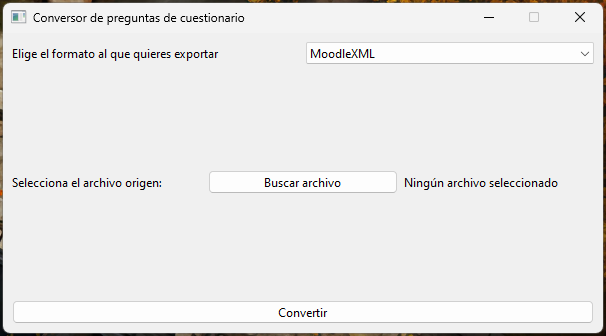
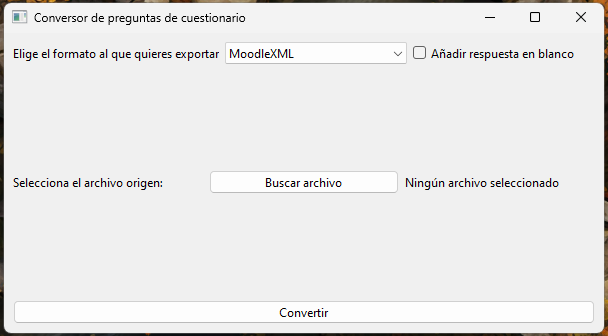
README and images  update

diff --git a/README.md b/README.md
@@ -38,10 +38,30 @@ Se incluye una interfaz gráfica para poder utilizar la aplicación más fácilm
 
 ![Ventana principal de la interfaz](./images/interface.png)
 
-- Se puede elegir el formato de salida deseado, a partir de un menú desplegable
+- Se puede elegir el formato de salida deseado, a partir de un menú desplegable.
+- Hay una casilla que se puede marcar para **añadir de forma automática una opción de respuesta que sirva para dejar la pregunta en blanco**, donde no afectaría la penalización.
 - Se puede elegir un archivo a convertir con el botón que está dedicado a ello, cuando un archivo esté seleccionado, aparecerá su nombre a la derecha.
 - Un vez se clica el botón de **Convertir**, se debe elegir la carpeta donde se guardará el archivo generado, con el nombre deseado.
 
+
+### Importación del archivo en Moodle
+Una vez esté el archivo generado, lo único que tenemos que hacer para poder usarlo es ir a un aula virtual Moodle, por ejemplo EducaMadrid. En la opción **Más** encontraremos el **Banco de preguntas**. Clicamos sobre él.
+
+![Ventana principal del curso de Moodle](./images/course-site.png)
+
+Dentro del **Banco de preguntas** podemos tener más o menos categorías creadas, pero para importar las preguntas de nuestro cuestionario generado clicamos en **Preguntas** y seleccionamos **Importar**.
+
+![Banco de preguntas](./images/question-repository.png)
+
+Al darle clic en **Importar** veremos que nos dejan elegir entre varios formatos, elegiremos el formato que sea nuestro archivo generado y lo arrastraremos en la parte de abajo.
+
+![Importar preguntas](./images/import-questions.png)
+
+Por último clicaremos en **Importar** y nos avisará de las preguntas que está cargando en nuestro banco de preguntas, ya estaría terminado, solo quedaría clicar en continuar.
+
+![Último paso de importación](./images/continue-import.png)
+
+Espero que sea de utilidad para vuestros tipo test.
 ## English version below:
 
 In construction...
